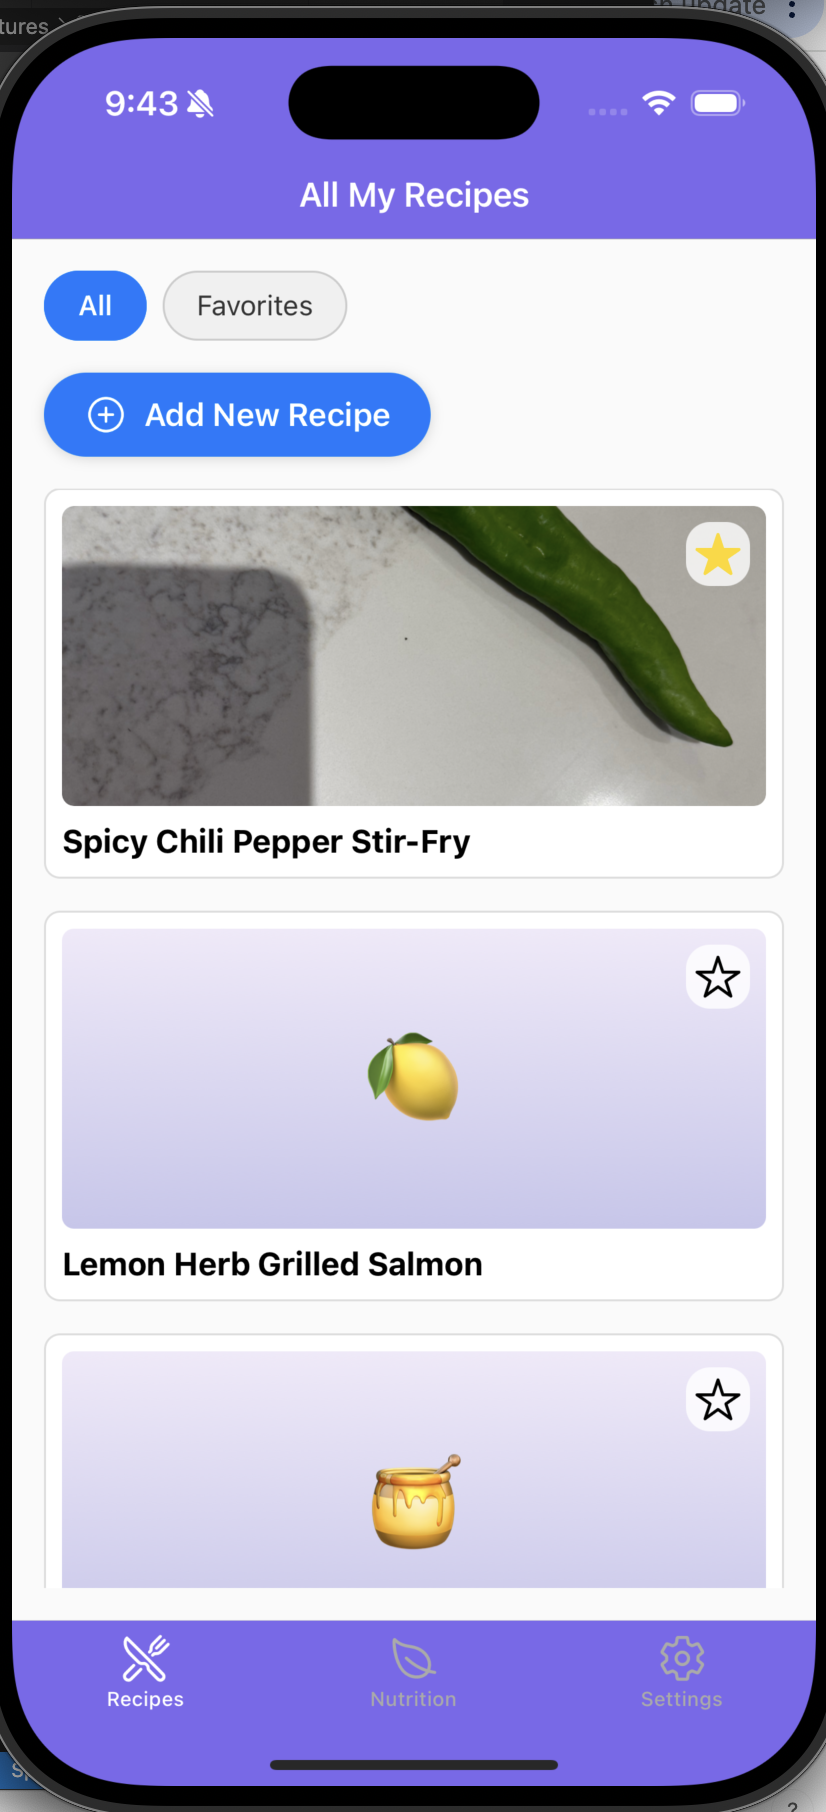
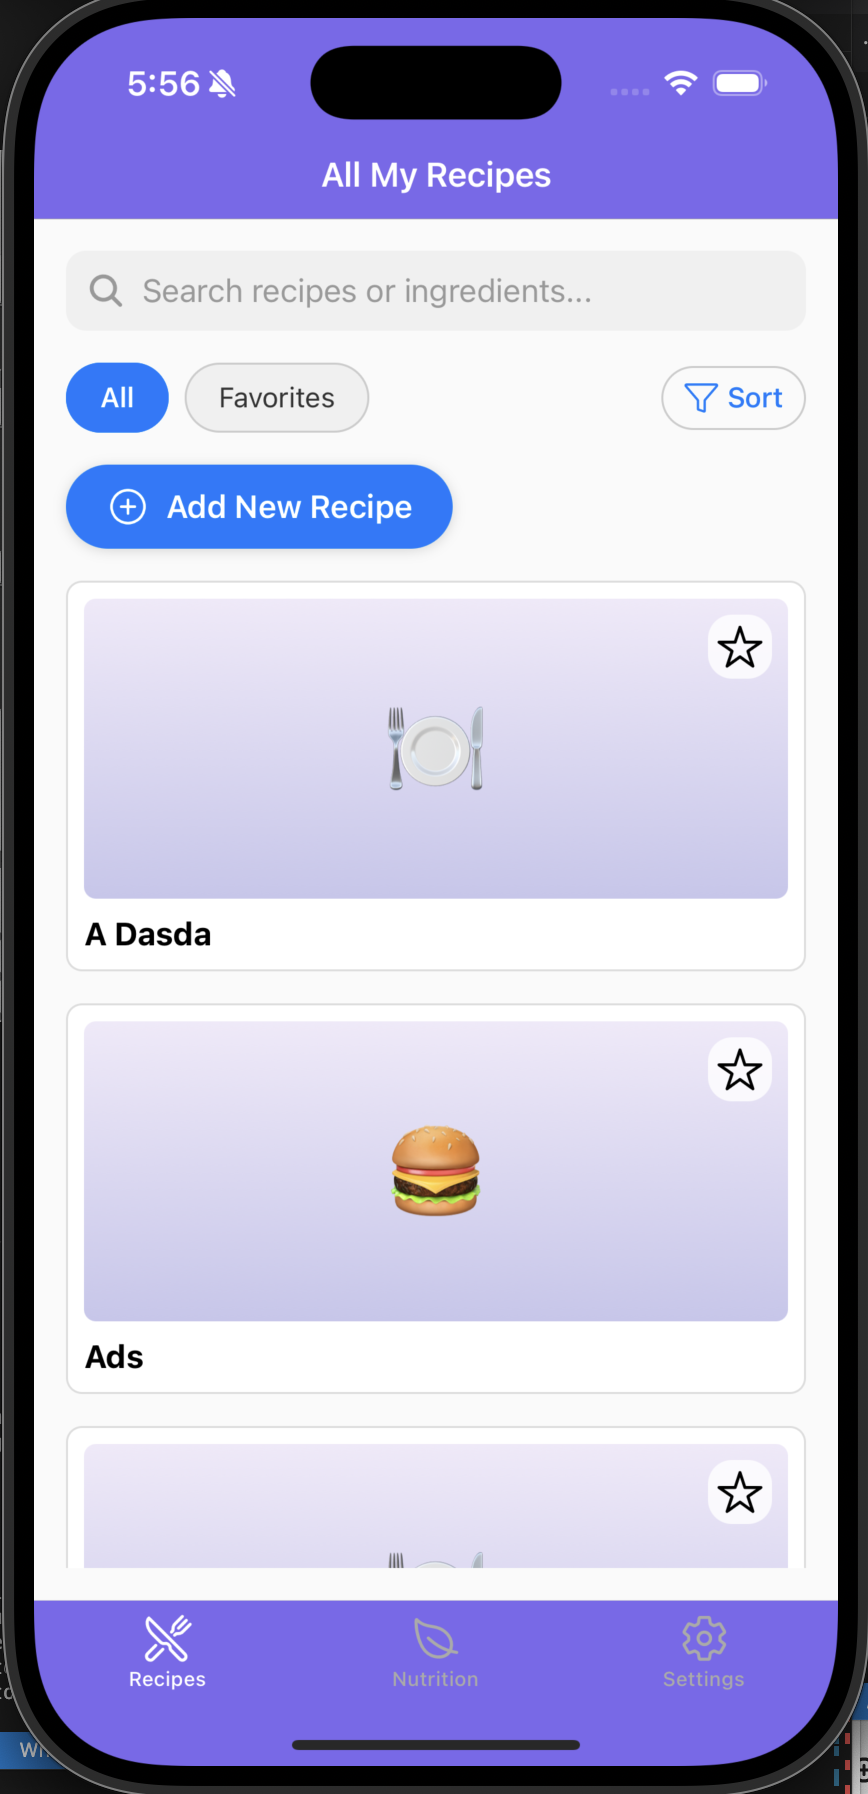
updated readme

diff --git a/README.md b/README.md
@@ -109,7 +109,6 @@ We've implemented the core recipe management functionalities, including:
 
 #### Recipe Screenshot:  
 <img src="assets/recipePhoto/all_recipes.png" alt="all Meals & Nutrition" width="20%"/>
-<img src="assets/recipePhoto/add_recipe_transition.png" alt="Add Recipes" width="20%"/>
 <img src="assets/recipePhoto/add_recipe_step1.png" alt="Add Recipes" width="20%"/>
 <img src="assets/recipePhoto/add_recipe_step2.png" alt="Add Recipes" width="20%"/>
 <img src="assets/recipePhoto/add_recipe_step3_ai.png" alt="Add Recipes" width="20%"/>
@@ -172,6 +171,7 @@ We've implemented the core recipe management functionalities, including:
 - Achieved **Location** page for users to search their desired groceries. Used "Google Places API", to match exact items user search and reflect on the google map embedded in the screen. Allow range filter and information browsing functionality.
 - Created "Emoji Generator" to dynamically update the recipe photo if user does not upload any photo. It will make prompt to AI API so the emoji can be determined by AI base on the Recipe Name. 
 - Applied uniform UI/UX improvement, updated layout for the entire pages of recipe and others part, now the entire app's UI is outstanding. 
+- Applied **Search** and **Sort** functionality to the recipes list.
 
 
 
